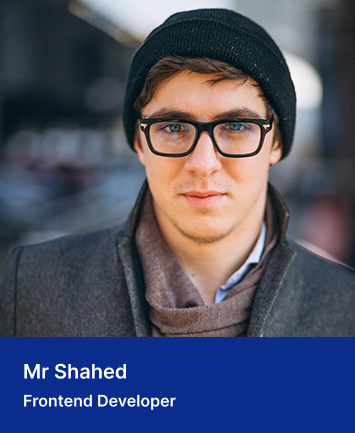
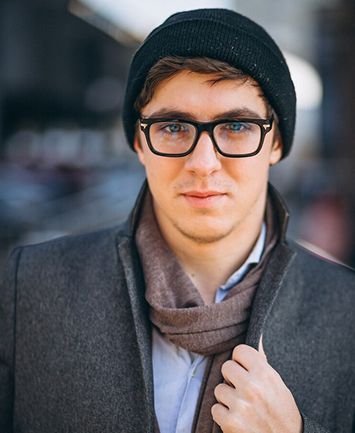
Faq section created and animated with farmar motion

Changed region(s): [[0.0, 0.7806, 1.0, 1.0]]

diff --git a/src/components/HomeComponents/Faq/Faq.jsx b/src/components/HomeComponents/Faq/Faq.jsx
@@ -1,0 +1,89 @@
+import { useState } from "react";
+import { FaPlus, FaMinus } from "react-icons/fa";
+import { motion } from "framer-motion";
+import { RxCross2 } from "react-icons/rx";
+
+const faqs = [
+  {
+    id: 1,
+    question: "What Is Included In Your Web Development Service?",
+    answer:
+      "Our web development service includes frontend and backend development, UI/UX design, SEO optimization, and ongoing maintenance.",
+  },
+  {
+    id: 2,
+    question: "What Technologies Do You Use For Web Development?",
+    answer:
+      "We use modern technologies such as React, Node.js, MongoDB, Tailwind CSS, and Firebase to ensure your website is scalable, secure, and responsive.",
+  },
+  {
+    id: 3,
+    question: "What If I Need Ongoing Support After The Website Is Launched?",
+    answer:
+      "We provide ongoing support, including bug fixes, performance optimization, and feature enhancements based on client needs.",
+  },
+  {
+    id: 4,
+    question: "Can I Customize My Website According To My Business Needs?",
+    answer:
+      "Yes! We offer fully customized web solutions tailored to your specific business requirements and branding.",
+  },
+  {
+    id: 5,
+    question: "Do You Offer SEO Services As Part Of Your Web Development?",
+    answer:
+      "Yes, we provide SEO-friendly development, including keyword optimization, fast loading times, and mobile responsiveness.",
+  },
+];
+
+const Faq = () => {
+  const [openIndex, setOpenIndex] = useState(null);
+
+  const toggleFAQ = (index) => {
+    setOpenIndex(openIndex === index ? null : index);
+  };
+
+  return (
+    <div className="max-w-[1000px] mx-auto mt-6">
+      {faqs.map((faq, index) => (
+        <div key={faq.id} className="border-y border-gray-200 p-4 mb-3">
+          <div
+            className="flex justify-between items-center cursor-pointer"
+            onClick={() => toggleFAQ(index)}
+          >
+            <div className="flex items-center gap-3">
+              <span className="text-blue-500 font-bold">{String(index + 1).padStart(2, "0")}.</span>
+              <h3
+                className={`text-lg font-medium transition-colors ${
+                  openIndex === index ? "text-blue-800" : "text-gray-800"
+                }`}
+              >
+                {faq.question}
+              </h3>
+            </div>
+            {openIndex === index ? (
+              <RxCross2 className="text-blue-600"/>
+            ) : (
+              <FaPlus className="text-gray-500" />
+              
+            )}
+          </div>
+
+          {openIndex === index && (
+            <motion.p
+              initial={{ opacity: 0, height: 0 }}
+              animate={{ opacity: 1, height: "auto" }}
+              exit={{ opacity: 0, height: 0 }}
+              transition={{ duration: 0.3 }}
+              className="mt-2 text-gray-600 overflow-hidden"
+            >
+              {faq.answer}
+            </motion.p>
+          )}
+        </div>
+      ))}
+    </div>
+  );
+};
+
+export default Faq;

diff --git a/src/components/HomeComponents/TeamSection/TeamSlider.jsx b/src/components/HomeComponents/TeamSection/TeamSlider.jsx
@@ -1,0 +1,90 @@
+import { Swiper, SwiperSlide } from "swiper/react";
+import "swiper/css";
+import "swiper/css/pagination";
+import "swiper/css/navigation";
+import { Pagination, Navigation } from "swiper/modules";
+import { FaAngleLeft, FaAngleRight } from "react-icons/fa";
+import man1 from '../../../assets/images/man-1.png'
+import man2 from '../../../assets/images/man-2.png'
+import man3 from '../../../assets/images/man-3.png'
+import man4 from '../../../assets/images/man-4.png'
+import TeamSlide from "./TeamSlide";
+
+const TeamSlider = () => {
+  return (
+    <div>
+      <Swiper
+        slidesPerView={1}
+        spaceBetween={0}
+        navigation={{ nextEl: ".next-2", prevEl: ".prev-2" }}
+        breakpoints={{
+          640: { slidesPerView: 1, spaceBetween: 0 },
+          768: { slidesPerView: 2, spaceBetween: 0 },
+          1024: { slidesPerView: 4, spaceBetween: 0 },
+        }}
+        modules={[Pagination, Navigation]}
+        className="mySwiper"
+      >
+        <SwiperSlide>
+          <TeamSlide
+          logo={man1}
+          name={'Mr Anik'}
+          title={'Backend Developer'}
+          />
+        </SwiperSlide>
+
+        <SwiperSlide>
+          <TeamSlide
+          logo={man2}
+          name={'Mr Shahed'}
+          title={'Frontend Developer'}
+          />
+        </SwiperSlide>
+
+        <SwiperSlide>
+          <TeamSlide
+          logo={man3}
+          name={'Mr Mainul Islam'}
+          title={'SEO Expert'}
+          />
+        </SwiperSlide>
+
+        <SwiperSlide>
+          <TeamSlide
+          logo={man4}
+          name={'Mr Hasib'}
+          title={'Content Writer'}
+          />
+        </SwiperSlide>
+
+        <SwiperSlide>
+          <TeamSlide
+          logo={man2}
+          name={'Mr Hayder'}
+          title={'Frontend Developer'}
+          />
+        </SwiperSlide>
+
+        <SwiperSlide>
+          <TeamSlide
+          logo={man1}
+          name={'Mr Jakariya'}
+          title={'Fullstack Developer'}
+          />
+        </SwiperSlide>
+      </Swiper>
+
+      {/* Navigation Buttons */}
+      <div className="flex justify-center gap-4 mt-6">
+        <button className="prev-2 text-xl border cursor-pointer border-gray-600 p-2 hover:text-white rounded-lg shadow-md hover:bg-[#FF693B] transition">
+          <FaAngleLeft />
+        </button>
+        <button className="next-2 text-xl border cursor-pointer border-gray-600 p-2 hover:text-white rounded-lg shadow-md hover:bg-[#FF693B] transition">
+          <FaAngleRight />
+        </button>
+      </div>
+    </div>
+  );
+};
+
+export default TeamSlider;

diff --git a/src/pages/Home.jsx b/src/pages/Home.jsx
@@ -1,8 +1,10 @@
 import SectionDivider from "../components/common-components/SectionDivider"
 import Banner from "../components/HomeComponents/Banner/Banner"
 import ClientSection from "../components/HomeComponents/ClientSection/ClientSection"
+import FaqSection from "../components/HomeComponents/Faq/FaqSection"
 import ProcessSection from "../components/HomeComponents/ProcessSection/ProcessSection"
 import Profile from "../components/HomeComponents/profileSection/Profile"
+import TeamSection from "../components/HomeComponents/TeamSection/TeamSection"
 
 
 const Home = () => {
@@ -13,6 +15,11 @@ const Home = () => {
       <ProcessSection/>
       <SectionDivider/>
       <ClientSection/>
+      <SectionDivider/>
+      <TeamSection/>
+      <SectionDivider/>
+      <FaqSection/>
+      <SectionDivider/>
     </div>
   )
 }

diff --git a/src/components/HomeComponents/TeamSection/TeamSection.jsx b/src/components/HomeComponents/TeamSection/TeamSection.jsx
@@ -1,0 +1,20 @@
+import React from 'react'
+import SectionTitle from '../../common-components/SectionTitle'
+import TeamSlider from './TeamSlider'
+
+const TeamSection = () => {
+  return (
+    <div className=''>
+        <SectionTitle
+         subHeading={'EXPERIENCED TEAM'}
+         Heading={'Our Team Members'}
+        />
+        {/* slider */}
+        <div className="max-w-[1440px] mx-auto">
+            <TeamSlider></TeamSlider>
+        </div>
+    </div>
+  )
+}
+
+export default TeamSection

diff --git a/src/components/HomeComponents/TeamSection/TeamSlide.jsx b/src/components/HomeComponents/TeamSection/TeamSlide.jsx
@@ -1,0 +1,15 @@
+
+
+const TeamSlide = ({logo, name, title}) => {
+  return (
+    <div className="border-r border-gray-300">
+        <img src={logo} alt="" className="w-full" />
+        <div className="p-4 text-white  bg-[#03135b]">
+            <p className="text-xl font-semibold">{name}</p>
+            <p className="font-semibold">{title}</p>
+        </div>
+    </div>
+  )
+}
+
+export default TeamSlide

diff --git a/src/components/HomeComponents/Faq/FaqSection.jsx b/src/components/HomeComponents/Faq/FaqSection.jsx
@@ -1,0 +1,13 @@
+import React from 'react'
+import Faq from './Faq'
+
+const FaqSection = () => {
+  return (
+    <div>
+        <h1 className="text-center text-3xl md:text-5xl mb-10 lg:mb-12 font-bold text-[#0A2C8C]">Frequently Asked Questions</h1>
+        <Faq/>
+    </div>
+  )
+}
+
+export default FaqSection

diff --git a/src/components/HomeComponents/profileSection/ProfileSlider.jsx b/src/components/HomeComponents/profileSection/ProfileSlider.jsx
@@ -21,7 +21,7 @@ const ProfileSlider = () => {
     <div className="px-4 lg:px-12 py-4">
       <Swiper
         spaceBetween={20}
-        slidesPerView={3} 
+        slidesPerView={1} 
         loop={true}
         grid={{ rows: 2, fill: "row" }} 
         navigation={{ nextEl: ".next", prevEl: ".prev" }}

diff --git a/src/components/HomeComponents/ClientSection/ClientSlider.jsx b/src/components/HomeComponents/ClientSection/ClientSlider.jsx
@@ -26,7 +26,7 @@ const ClientSlider = () => {
     <div className="relative">
       <Swiper
         spaceBetween={20}
-        slidesPerView={3} 
+        slidesPerView={1} 
         grid={{ rows: 2, fill: "row" }} 
         loop={true}
         navigation={{ nextEl: ".next-1", prevEl: ".prev-1" }}
